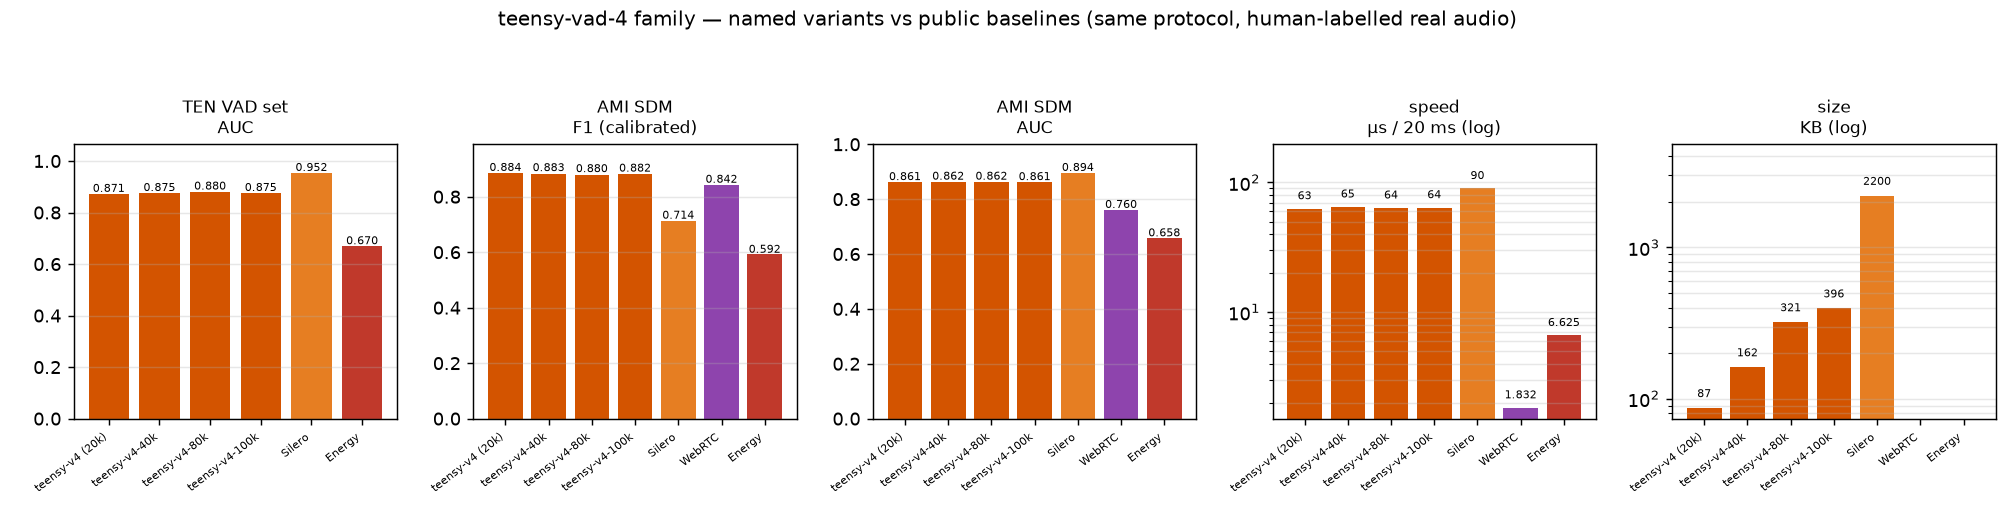
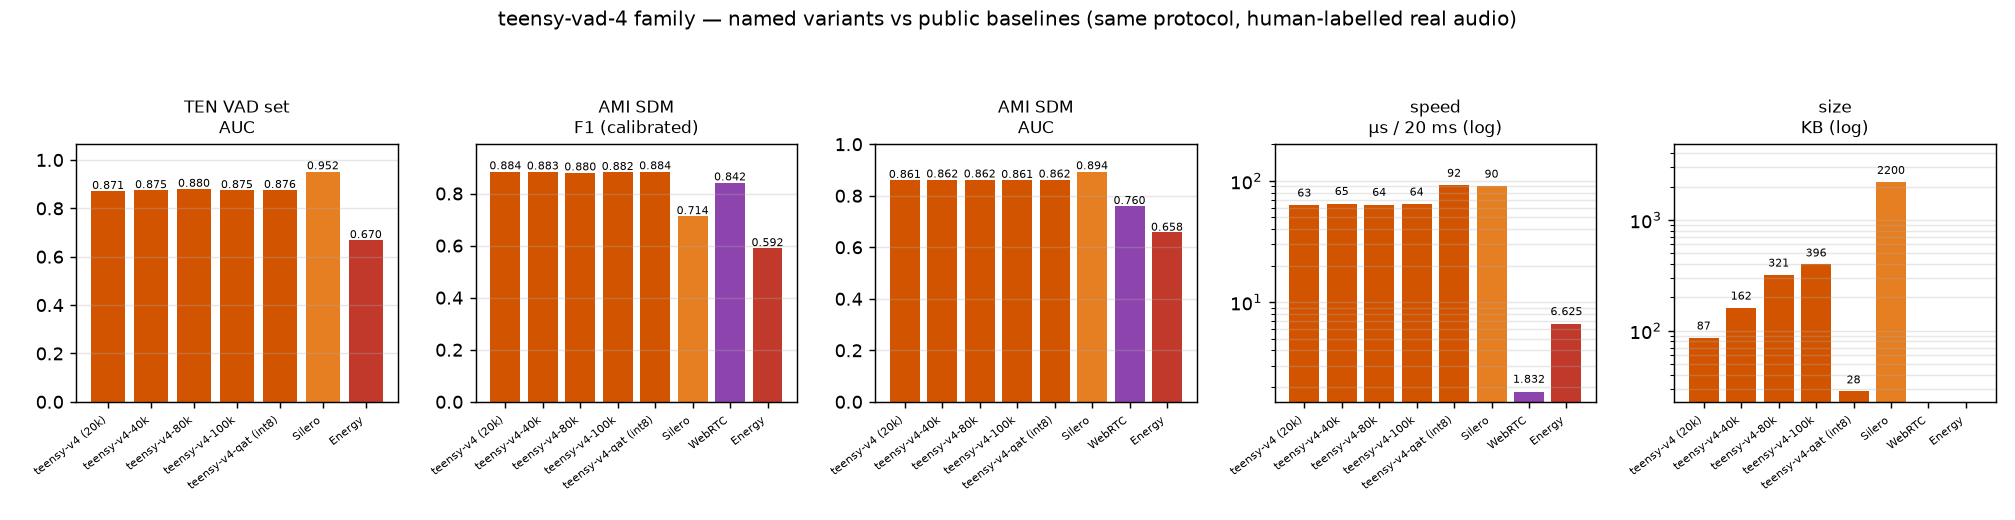
full v4 family in all comparison views: 40k/100k rows added to paper + card tables, qat added to chart_v4 (5 variants + baselines)

diff --git a/space_teensyresearch/index.html b/space_teensyresearch/index.html
@@ -148,8 +148,14 @@
                     <td>0.890</td><td>0.868</td><td>0.880</td><td>0.848</td><td>63</td></tr>
                 <tr><td>teensy-v3-80k</td><td>80,373</td><td>321</td>
                     <td>0.894</td><td>0.877</td><td>0.882</td><td>0.861</td><td>66</td></tr>
+                <tr><td>teensy-v4 (20k)</td><td>20,449</td><td>87</td>
+                    <td>0.892</td><td>0.871</td><td>0.884</td><td>0.861</td><td>63</td></tr>
+                <tr><td>teensy-v4-40k</td><td>39,609</td><td>161</td>
+                    <td>0.892</td><td>0.875</td><td>0.883</td><td>0.862</td><td>65</td></tr>
                 <tr class="is-selected"><td><b>teensy-v4-80k</b></td><td>80,373</td><td>321</td>
                     <td><b>0.896</b></td><td><b>0.880</b></td><td>0.880</td><td>0.862</td><td>66</td></tr>
+                <tr><td>teensy-v4-100k</td><td>99,593</td><td>396</td>
+                    <td>0.892</td><td>0.875</td><td>0.882</td><td>0.861</td><td>64</td></tr>
                 <tr><td>teensy-v4-qat (int8)</td><td>20,449</td><td><b>28</b></td>
                     <td>0.894</td><td>0.876</td><td>0.884</td><td>0.862</td><td>92</td></tr>
                 <tr><td>Silero VAD (teacher)</td><td>1,774,000</td><td>2,200</td>

diff --git a/scripts/make_charts_per_repo.py b/scripts/make_charts_per_repo.py
@@ -37,7 +37,8 @@ VARIANTS = {
            ("teensy-v3-80k", "v3-80k"), ("teensy-v3-100k", "v3-100k"),
            ("teensy-v3-qat (int8)", "v3-qat")],
     "v4": [("teensy-v4 (20k)", "v4"), ("teensy-v4-40k", "v4-40k"),
-           ("teensy-v4-80k", "v4-80k"), ("teensy-v4-100k", "v4-100k")],
+           ("teensy-v4-80k", "v4-80k"), ("teensy-v4-100k", "v4-100k"),
+           ("teensy-v4-qat (int8)", "v4-qat")],
 }
 BASELINES = ["Silero VAD", "WebRTC VAD", "Energy VAD"]
 

diff --git a/hf_upload/teensy-vad-v4/README.md b/hf_upload/teensy-vad-v4/README.md
@@ -148,14 +148,14 @@ Shared protocol (human-labelled audio, AMI-dev-calibrated operating
 points, AUC on raw probabilities — full appendix:
 [BENCHMARKS.md](https://huggingface.co/Teensy/teensy-vad-3/blob/main/BENCHMARKS.md)):
 
-| | v4 (20k) | **v4-80k** | v3-80k | Silero | WebRTC | Energy |
-|---|---|---|---|---|---|---|
-| params | 20,449 | 80,373 | 80,373 | 1,774,000 | ~6k | — |
-| TEN VAD set — F1 (best thr*) | 0.892 | **0.896** | 0.894 | 0.938 | n/a | — |
-| TEN VAD set — AUC | 0.871 | **0.880** | 0.877 | 0.952 | n/a | 0.670 |
-| AMI SDM — F1 (calibrated) | **0.884** | 0.880 | 0.882 | 0.714 | 0.842 | 0.592 |
-| AMI SDM — AUC | 0.861 | **0.862** | 0.861 | 0.894 | 0.760 | 0.658 |
-| µs / 20 ms chunk | 63 | 66 | 66 | 89 | 2 | 7 |
+| | v4 (20k) | v4-40k | **v4-80k** | v4-100k | v4-qat (int8) | v3-80k | Silero | WebRTC | Energy |
+|---|---|---|---|---|---|---|---|---|---|
+| params | 20,449 | 39,609 | 80,373 | 99,593 | 20,449 | 80,373 | 1,774,000 | ~6k | — |
+| TEN VAD set — F1 (best thr*) | 0.892 | 0.892 | **0.896** | 0.892 | 0.894 | 0.894 | 0.938 | n/a | — |
+| TEN VAD set — AUC | 0.871 | 0.875 | **0.880** | 0.875 | 0.876 | 0.877 | 0.952 | n/a | 0.670 |
+| AMI SDM — F1 (calibrated) | **0.884** | 0.883 | 0.880 | 0.882 | 0.884 | 0.882 | 0.714 | 0.842 | 0.592 |
+| AMI SDM — AUC | 0.861 | **0.862** | 0.862 | 0.861 | 0.862 | 0.861 | 0.894 | 0.760 | 0.658 |
+| µs / 20 ms chunk | 63 | 65 | 66 | 64 | 92 | 66 | 89 | 2 | 7 |
 
 \* tuned on that set — like-for-like with FlashVAD's published
 F1 0.889 / AUC 0.882: **v4-80k essentially matches FlashVAD's AUC
